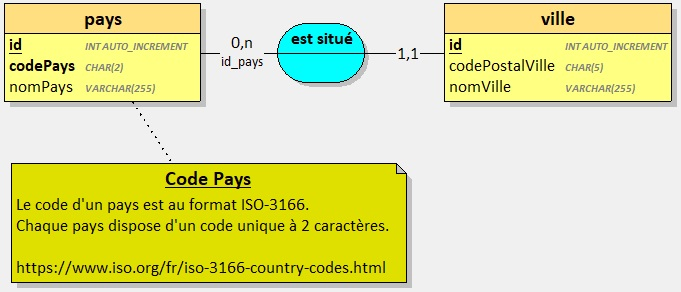
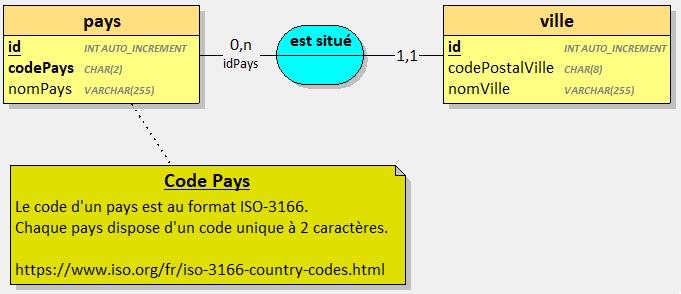
update cities MLD

Changed region(s): [[0.0, 0.0, 1.0, 0.3699], [0.0, 0.5548, 0.6167, 0.9863], [0.4317, 0.2466, 0.5242, 0.3082]]

diff --git a/docs/tp/web/backend/api-cities/index.md b/docs/tp/web/backend/api-cities/index.md
@@ -55,6 +55,3 @@ Vous utiliserez le jeu d'essai fourni dans le fichier [cities.json](./cities.jso
 3. Effectuer la migration pour mettre à jour la base de données
 4. Lancer l'application dans un navigateur
 5. Ajouter toutes les villes du [jeu d'essai fourni](./cities.json). *Ajouter les pays correspondant si nécessaire*.
-
-
-## Partie 2 : Développer les interfaces utilisateur 
